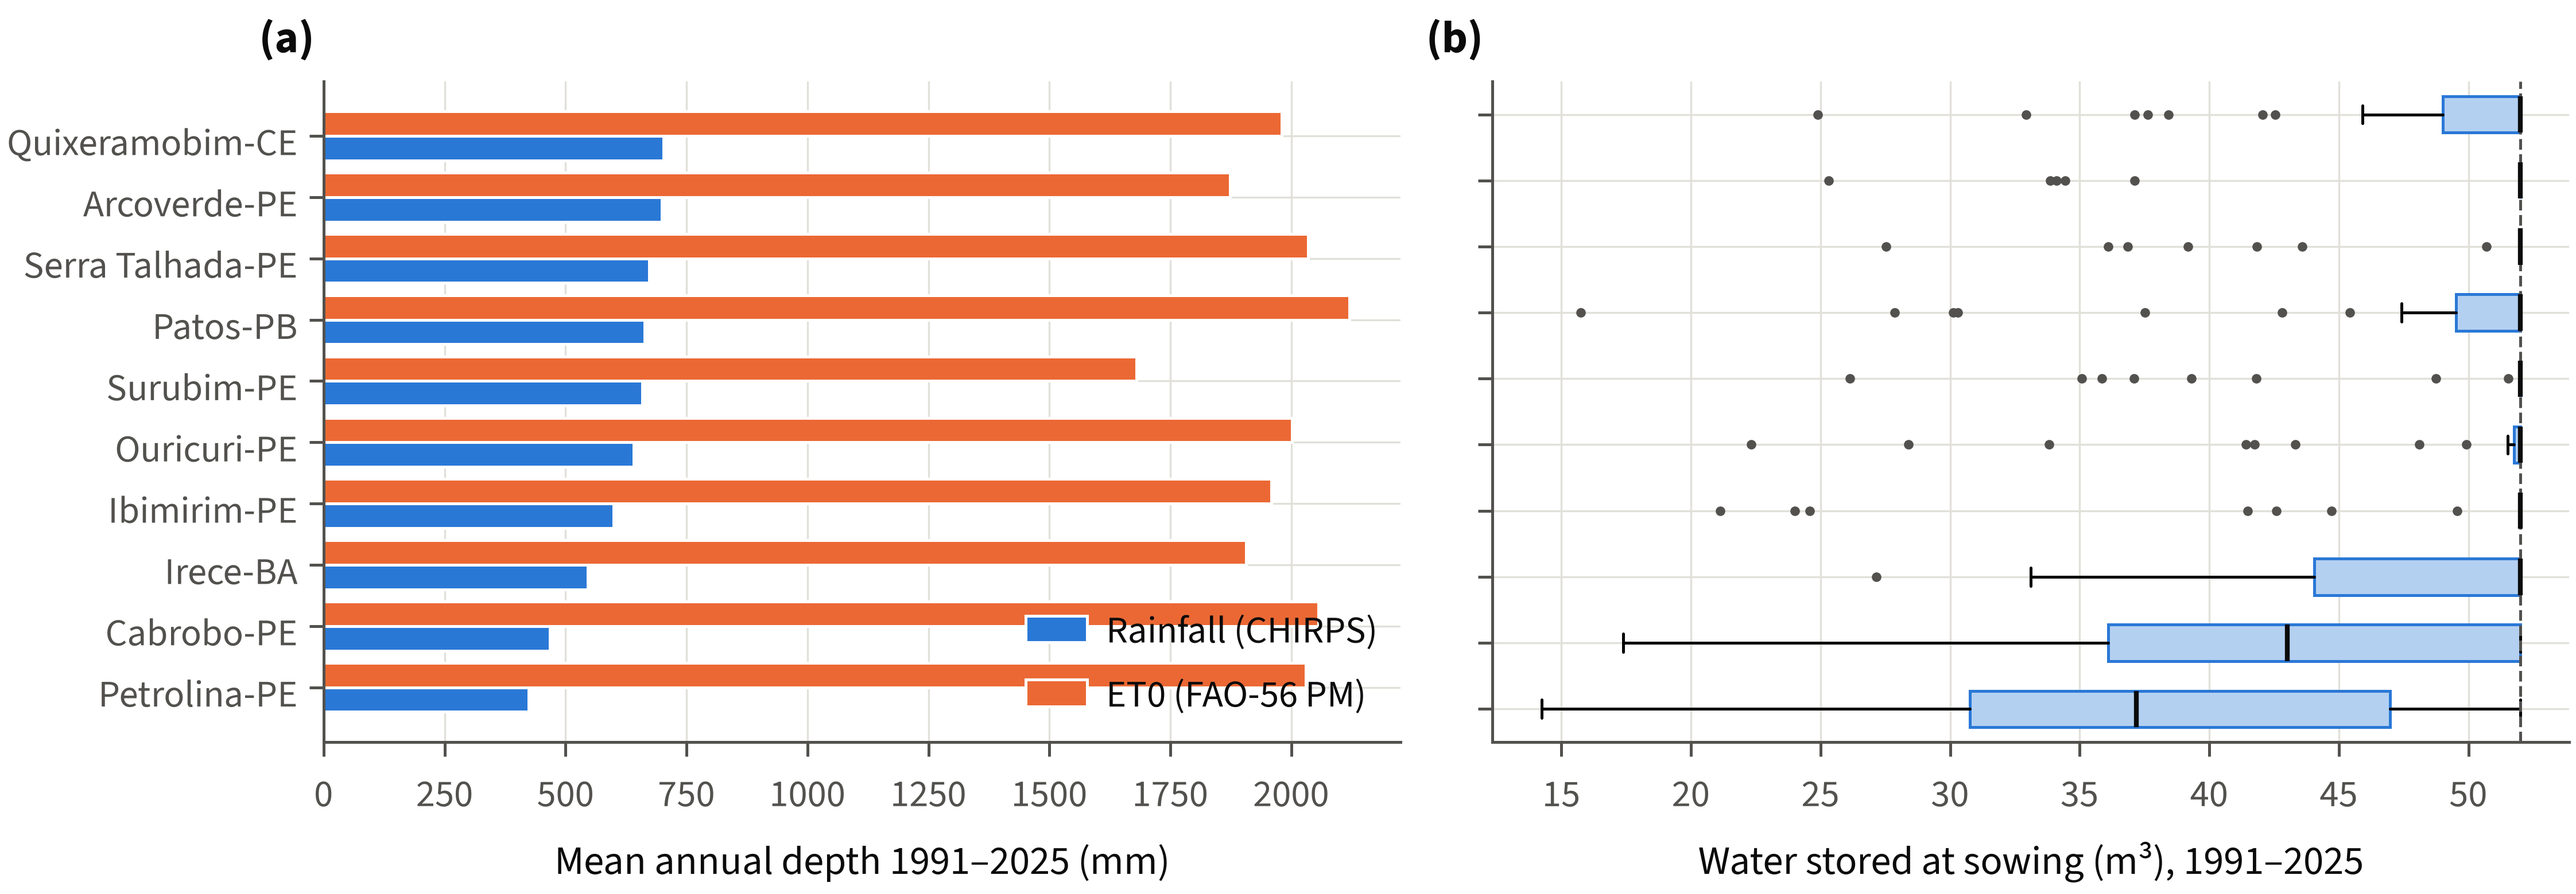
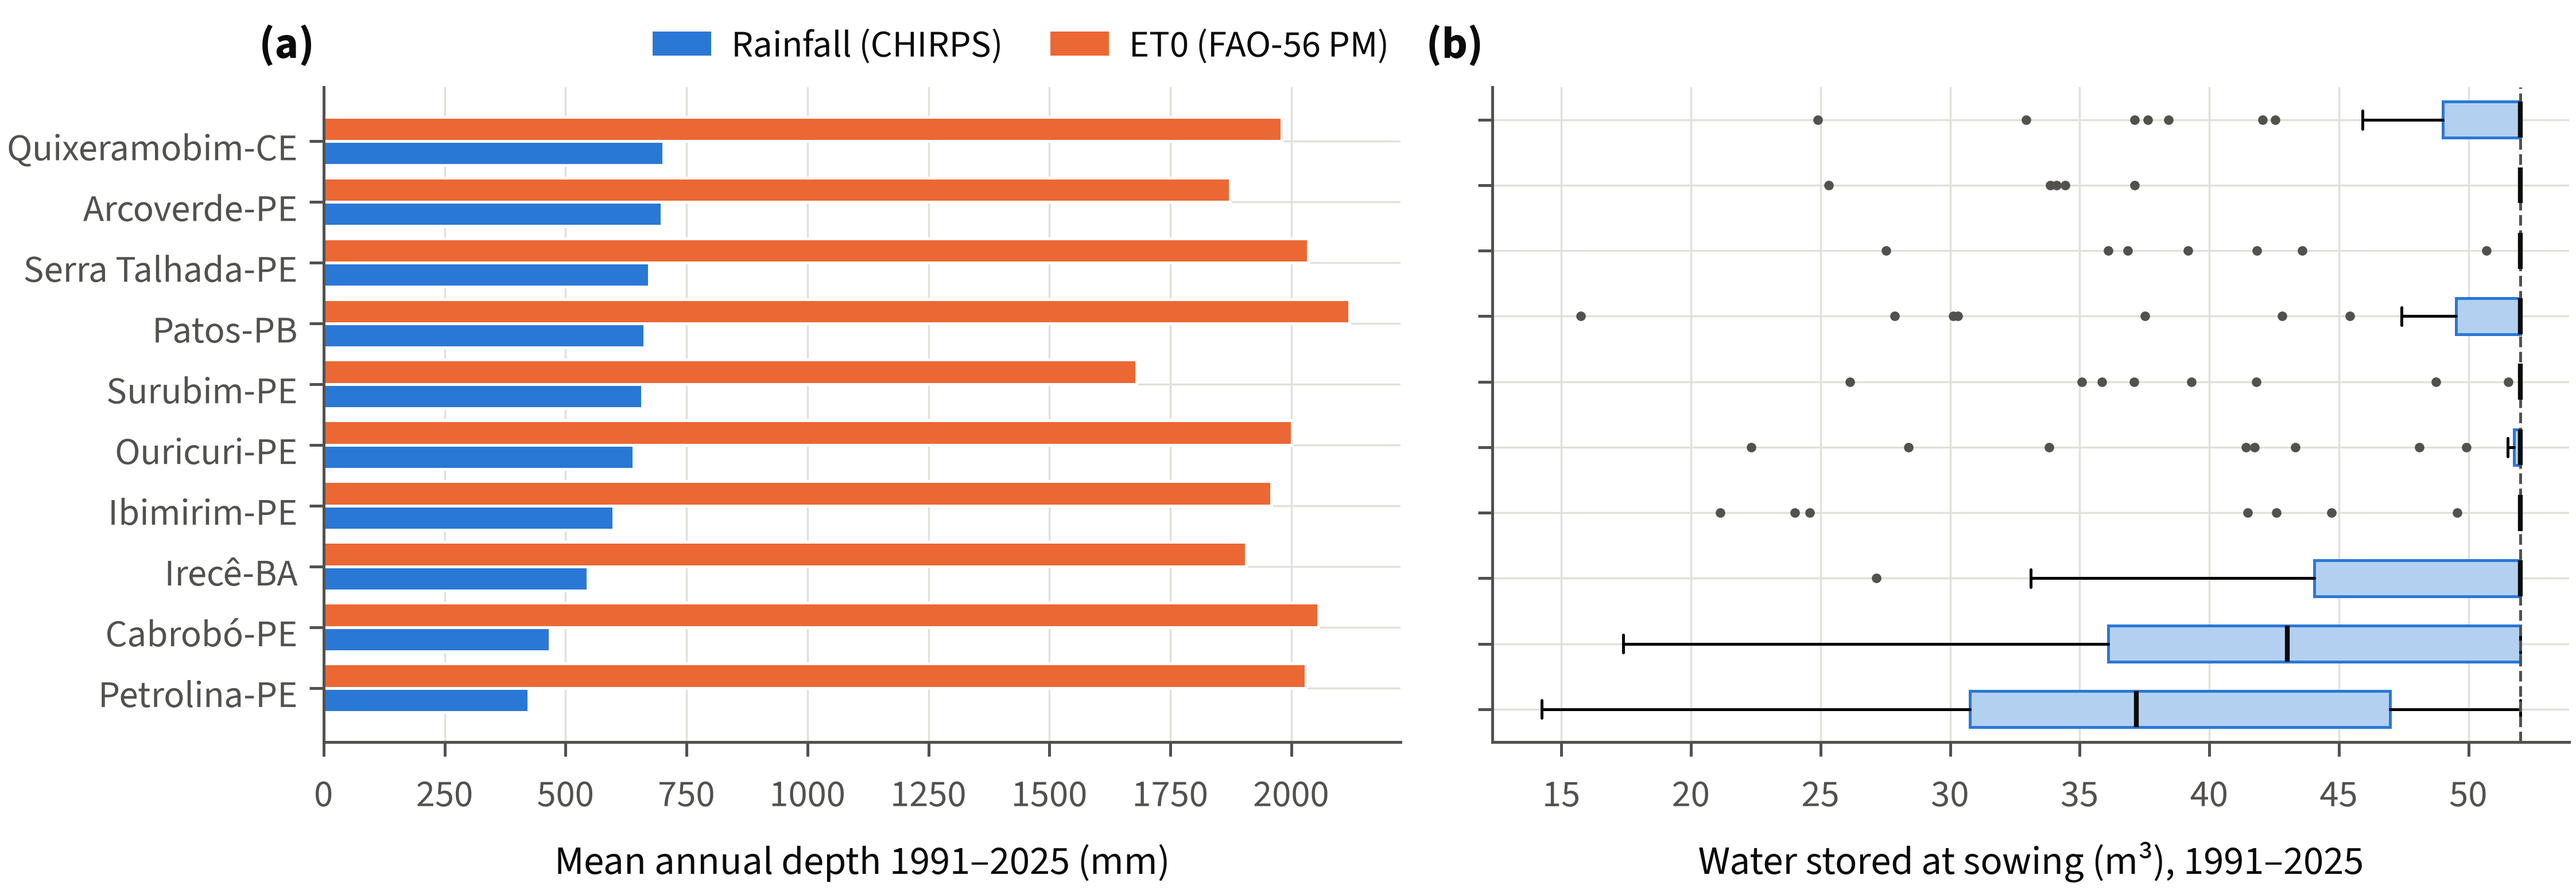
Accented site names, n.a. for blank cells of the sensitivity table, subscript in the sensor table header, Fig. 5 legend clear of the bars, and one p value key for the abstract (no result changed)

diff --git a/experimentos/e06_numeros.py b/experimentos/e06_numeros.py
@@ -126,6 +126,7 @@ def control():
         for c in ("sdp", "threshold"):
             q = dr[(dr.controller == c) & (dr.soil_sensor == "S0")]
             N[f"{crop}_{c}_S0_drought_mean"] = r3(q.yield_ratio.mean())
+    N["gain_S2_p_max"] = max(N["cowpea_gain_S2_p"], N["tomato_gain_S2_p"])  # one p value for both crops (abstract)
     # all areas, perfect sensing, largest gap
     g = te[te.soil_sensor == "S0"].groupby(["crop", "area_m2", "controller"]).yield_ratio.mean().unstack()
     g["gain"] = g.sdp - g.threshold
@@ -164,9 +165,9 @@ def sensitivity():
         def g(crop, c):
             try:
                 x = t.loc[(crop, v), c]
-                return "–" if pd.isna(x) else f"{x:.3f}"
+                return "n.a." if pd.isna(x) else f"{x:.3f}"
             except KeyError:
-                return "–"
+                return "n.a."
         lines.append(f"| {nm} | {g('tomato', 'threshold-S2')} | {g('tomato', 'sdp-S2')} | {g('cowpea', 'threshold-S2')} | "
                      f"{g('cowpea', 'sdp-S2')} | {by.loc[('cowpea', v)] / 1000:.1f} |")
         for crop in ("tomato", "cowpea"):
@@ -205,7 +206,7 @@ def sensor():
     g25 = gp[gp.gap_mm == 0.25].set_index("eps_soil").F
     N["airgap025_drop_eps15_pct"] = int(round(100 * (1 - g25.loc[15.0] / base.loc[15.0])))
     mc = pd.read_csv(S / "monte_carlo_resumo.csv")
-    lines = ["| σ_p (S m⁻¹) | Low-cost class, 22 kΩ | Single, 1 kΩ | Dual, 1 + 2.2 kΩ |", "|---|---|---|---|"]
+    lines = ["| σ~p~ (S m⁻¹) | Low-cost class, 22 kΩ | Single, 1 kΩ | Dual, 1 + 2.2 kΩ |", "|---|---|---|---|"]
     for sp_ in sorted(mc.sigma_p.unique()):
         row = mc[mc.sigma_p == sp_].set_index("method")
         lines.append(f"| {sp_:g} | {row.loc['lowcost', 'rmse']:.3f} ({row.loc['lowcost', 'bias']:+.3f}) | "

diff --git a/cisterna/config.py b/cisterna/config.py
@@ -15,16 +15,16 @@ TEST_YEARS = range(2011, 2026)        # out-of-sample evaluation, includes the 2
 # CHIRPS 0.05 deg) make sub-kilometre precision irrelevant.
 SITES = [
     # id, name, state, lat, lon, region
-    ("PET", "Petrolina", "PE", -9.39, -40.50, "Sertao do Sao Francisco"),
-    ("CAB", "Cabrobo", "PE", -8.51, -39.31, "Sertao do Sao Francisco"),
-    ("IBI", "Ibimirim", "PE", -8.54, -37.69, "Sertao do Moxoto"),
-    ("SET", "Serra Talhada", "PE", -7.99, -38.30, "Sertao do Pajeu"),
-    ("OUR", "Ouricuri", "PE", -7.88, -40.08, "Sertao do Araripe"),
-    ("ARC", "Arcoverde", "PE", -8.42, -37.05, "Sertao do Moxoto (transition)"),
+    ("PET", "Petrolina", "PE", -9.39, -40.50, "Sertão do São Francisco"),
+    ("CAB", "Cabrobó", "PE", -8.51, -39.31, "Sertão do São Francisco"),
+    ("IBI", "Ibimirim", "PE", -8.54, -37.69, "Sertão do Moxotó"),
+    ("SET", "Serra Talhada", "PE", -7.99, -38.30, "Sertão do Pajeú"),
+    ("OUR", "Ouricuri", "PE", -7.88, -40.08, "Sertão do Araripe"),
+    ("ARC", "Arcoverde", "PE", -8.42, -37.05, "Sertão do Moxotó (transition)"),
     ("SUR", "Surubim", "PE", -7.83, -35.75, "Agreste Setentrional"),
-    ("PAT", "Patos", "PB", -7.02, -37.28, "Sertao Paraibano"),
-    ("QXM", "Quixeramobim", "CE", -5.20, -39.29, "Sertao Central"),
-    ("IRE", "Irece", "BA", -11.30, -41.86, "Chapada Diamantina (north)"),
+    ("PAT", "Patos", "PB", -7.02, -37.28, "Sertão Paraibano"),
+    ("QXM", "Quixeramobim", "CE", -5.20, -39.29, "Sertão Central"),
+    ("IRE", "Irecê", "BA", -11.30, -41.86, "Chapada Diamantina (north)"),
 ]
 SITE_IDS = [s[0] for s in SITES]
 REFERENCE_SITE = "SET"

diff --git a/experimentos/e05_figuras.py b/experimentos/e05_figuras.py
@@ -183,7 +183,7 @@ def fig05():
     ax.barh(yy - 0.2, cl.rain, 0.4, color=C[0], label="Rainfall (CHIRPS)", **ef.GAP)
     ax.barh(yy + 0.2, cl.et0, 0.4, color=C[1], label="ET0 (FAO-56 PM)", **ef.GAP)
     ax.set_yticks(yy); ax.set_yticklabels(cl.label); ax.set_xlabel("Mean annual depth 1991–2025 (mm)")
-    ax.legend(fontsize=8, loc="lower right")
+    ax.legend(fontsize=8, loc="lower right", bbox_to_anchor=(1, 1.01), ncol=2, borderaxespad=0, frameon=False)
     ax = axs[1]
     v = res[(res.crop == "cowpea") & (res.area_m2 == 200) & (res.controller == "sdp") & (res.soil_sensor == "S0") & (res.year >= 1991)]
     data = [v[v.site == s].v_sow.values for s in cl.site]

diff --git a/04_resultados/tabelas/tab_locais.md b/04_resultados/tabelas/tab_locais.md
@@ -1,12 +1,12 @@
 | Site | Lat. (°) | Lon. (°) | Region | Rainfall (mm yr⁻¹) | ET0 (mm yr⁻¹) | Sowing |
 |---|---|---|---|---|---|---|
-| Petrolina-PE | -9.39 | -40.50 | Sertao do Sao Francisco | 423 | 2030 | 1 Apr |
-| Cabrobo-PE | -8.51 | -39.31 | Sertao do Sao Francisco | 467 | 2056 | 1 May |
-| Irece-BA | -11.30 | -41.86 | Chapada Diamantina (north) | 546 | 1907 | 1 Apr |
-| Ibimirim-PE | -8.54 | -37.69 | Sertao do Moxoto | 599 | 1959 | 1 May |
-| Ouricuri-PE | -7.88 | -40.08 | Sertao do Araripe | 641 | 2002 | 1 May |
+| Petrolina-PE | -9.39 | -40.50 | Sertão do São Francisco | 423 | 2030 | 1 Apr |
+| Cabrobó-PE | -8.51 | -39.31 | Sertão do São Francisco | 467 | 2056 | 1 May |
+| Irecê-BA | -11.30 | -41.86 | Chapada Diamantina (north) | 546 | 1907 | 1 Apr |
+| Ibimirim-PE | -8.54 | -37.69 | Sertão do Moxotó | 599 | 1959 | 1 May |
+| Ouricuri-PE | -7.88 | -40.08 | Sertão do Araripe | 641 | 2002 | 1 May |
 | Surubim-PE | -7.83 | -35.75 | Agreste Setentrional | 658 | 1680 | 1 Aug |
-| Patos-PB | -7.02 | -37.28 | Sertao Paraibano | 663 | 2120 | 1 May |
-| Serra Talhada-PE | -7.99 | -38.30 | Sertao do Pajeu | 672 | 2035 | 1 May |
-| Arcoverde-PE | -8.42 | -37.05 | Sertao do Moxoto (transition) | 698 | 1874 | 1 Jul |
-| Quixeramobim-CE | -5.20 | -39.29 | Sertao Central | 702 | 1980 | 1 Jun |
+| Patos-PB | -7.02 | -37.28 | Sertão Paraibano | 663 | 2120 | 1 May |
+| Serra Talhada-PE | -7.99 | -38.30 | Sertão do Pajeú | 672 | 2035 | 1 May |
+| Arcoverde-PE | -8.42 | -37.05 | Sertão do Moxotó (transition) | 698 | 1874 | 1 Jul |
+| Quixeramobim-CE | -5.20 | -39.29 | Sertão Central | 702 | 1980 | 1 Jun |

diff --git a/04_resultados/tabelas/tab_sensibilidade.md b/04_resultados/tabelas/tab_sensibilidade.md
@@ -6,8 +6,8 @@
 | Well-kept catchment, runoff coefficient 0.8 | 0.839 | 0.907 | 0.597 | 0.760 | 51.0 |
 | Pumping limited by a 50 W module (no battery) | 0.795 | 0.861 | 0.510 | 0.650 | 51.0 |
 | Pumping limited by an 80 W module (no battery) | 0.797 | 0.858 | 0.556 | 0.699 | 51.0 |
-| Terminal value 0.005 m⁻³ | – | 0.853 | – | 0.689 | 51.0 |
-| Terminal value 0.010 m⁻³ | – | 0.847 | – | 0.678 | 51.0 |
-| Coarser table (11 × 14 states) | – | 0.858 | – | 0.697 | 13.9 |
-| Table held over 5-day blocks | – | 0.860 | – | 0.695 | 10.2 |
-| Table held over 10-day blocks | – | 0.862 | – | 0.683 | 5.1 |
+| Terminal value 0.005 m⁻³ | n.a. | 0.853 | n.a. | 0.689 | 51.0 |
+| Terminal value 0.010 m⁻³ | n.a. | 0.847 | n.a. | 0.678 | 51.0 |
+| Coarser table (11 × 14 states) | n.a. | 0.858 | n.a. | 0.697 | 13.9 |
+| Table held over 5-day blocks | n.a. | 0.860 | n.a. | 0.695 | 10.2 |
+| Table held over 10-day blocks | n.a. | 0.862 | n.a. | 0.683 | 5.1 |

diff --git a/04_resultados/tabelas/tab_sensor.md b/04_resultados/tabelas/tab_sensor.md
@@ -1,4 +1,4 @@
-| σ_p (S m⁻¹) | Low-cost class, 22 kΩ | Single, 1 kΩ | Dual, 1 + 2.2 kΩ |
+| σ~p~ (S m⁻¹) | Low-cost class, 22 kΩ | Single, 1 kΩ | Dual, 1 + 2.2 kΩ |
 |---|---|---|---|
 | 0.02 | 0.037 (+0.009) | 0.011 (+0.003) | 0.011 (+0.002) |
 | 0.05 | 0.138 (+0.122) | 0.013 (+0.000) | 0.011 (+0.002) |
